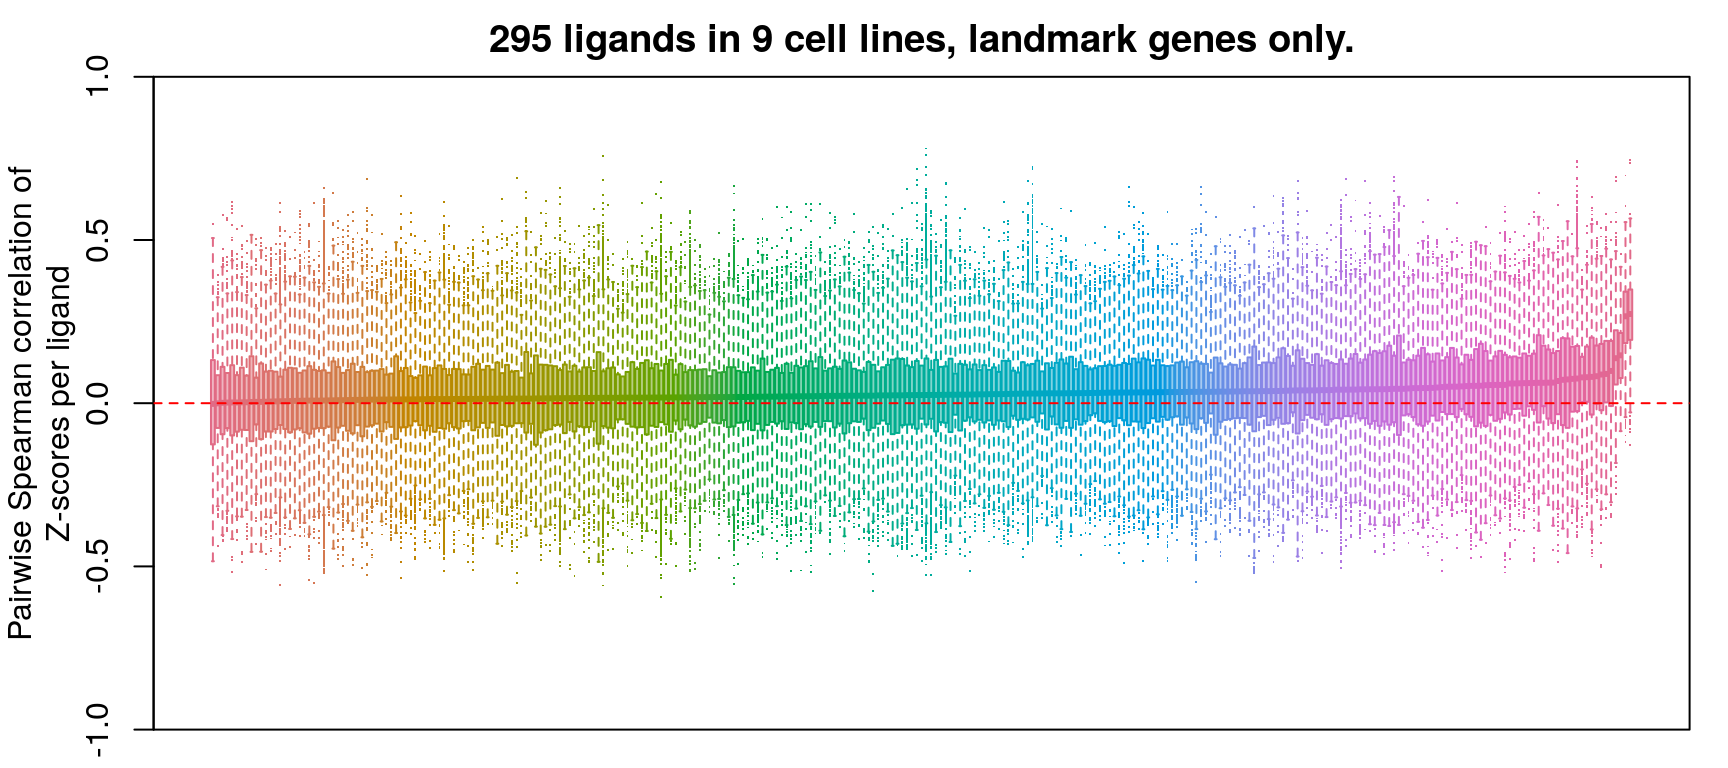
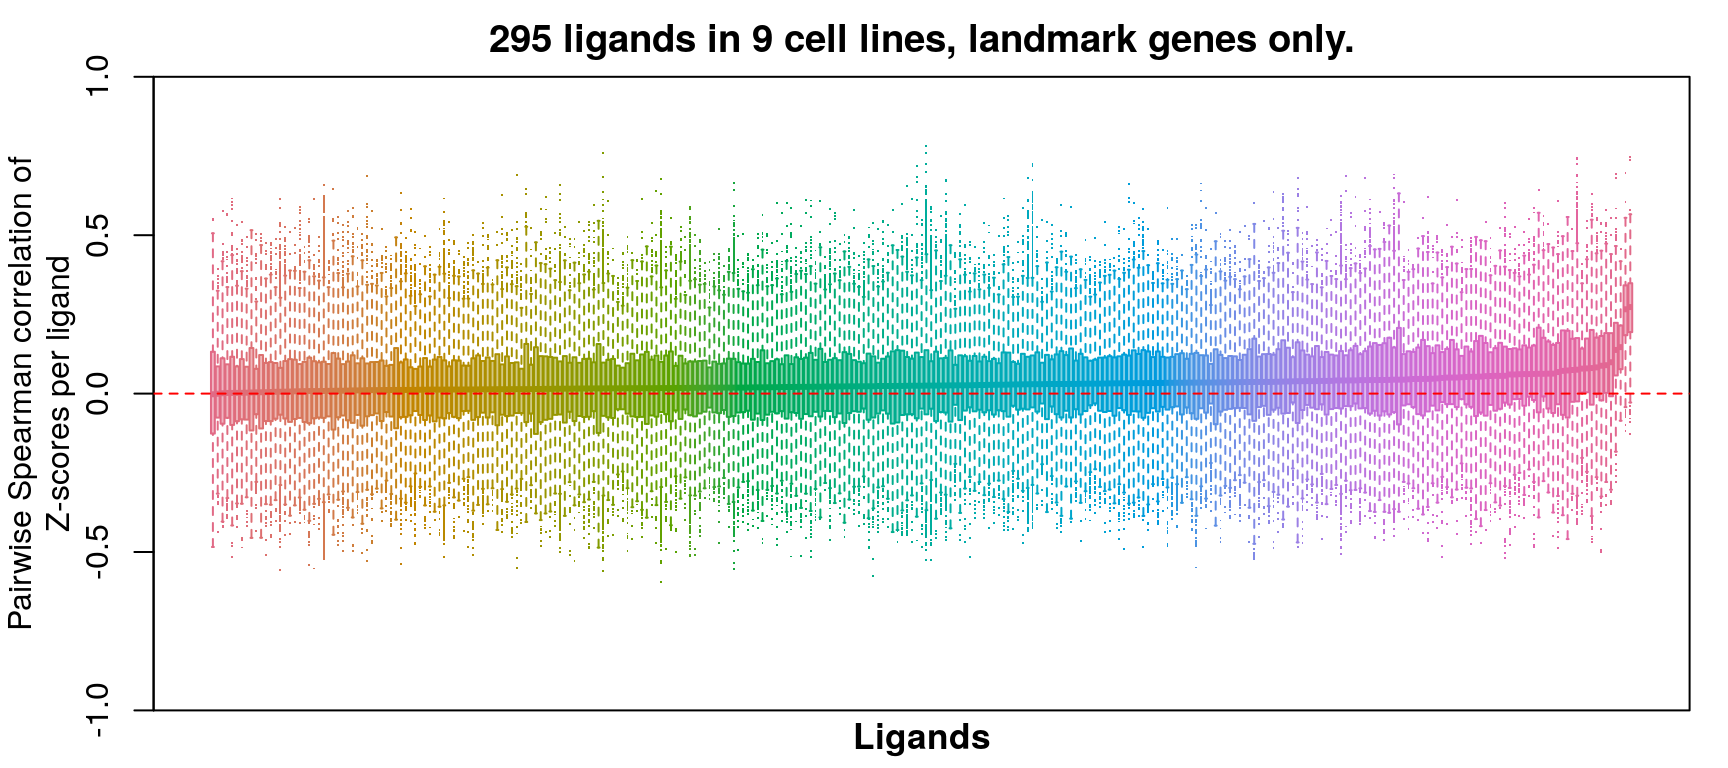
210114 - better Zcorr fig.

Changed region(s): [[0.0, 0.1875, 0.9688, 0.8438], [0.0938, 0.9062, 0.9688, 1.0], [0.0312, 0.875, 0.0625, 0.9688]]

diff --git a/docs/Zcorr.html b/docs/Zcorr.html
@@ -23,6 +23,15 @@
 <link href="site_libs/highlightjs-9.12.0/default.css" rel="stylesheet" />
 <script src="site_libs/highlightjs-9.12.0/highlight.js"></script>
 
+<style type="text/css">
+  code{white-space: pre-wrap;}
+  span.smallcaps{font-variant: small-caps;}
+  span.underline{text-decoration: underline;}
+  div.column{display: inline-block; vertical-align: top; width: 50%;}
+  div.hanging-indent{margin-left: 1.5em; text-indent: -1.5em;}
+  ul.task-list{list-style: none;}
+    </style>
+
 <style type="text/css">code{white-space: pre;}</style>
 <style type="text/css">
   pre:not([class]) {
@@ -67,6 +76,7 @@ h6 {
   text-align: left;
 }
 </style>
+
 
 
 
@@ -396,6 +406,18 @@ $(document).ready(function () {
 <h1>Comparison of all correlation distributions</h1>
 <p><img src="Zcorr_files/figure-html/compare_all-1.png" width="384" /><img src="Zcorr_files/figure-html/compare_all-2.png" width="384" /><img src="Zcorr_files/figure-html/compare_all-3.png" width="384" /><img src="Zcorr_files/figure-html/compare_all-4.png" width="384" /></p>
 </div>
+<div id="new-stuff" class="section level1">
+<h1>New stuff</h1>
+<div id="z-score-fat-tails" class="section level3">
+<h3>Z-score fat tails?</h3>
+<p><img src="Zcorr_files/figure-html/qq_zscore-1.png" width="768" /> Maybe…?</p>
+</div>
+<div id="better-correlation-figure" class="section level2">
+<h2>Better correlation figure</h2>
+<p><img src="Zcorr_files/figure-html/cors_per_lig-1.png" width="864" /></p>
+<p>The * denotes p &lt; 2.2e-16 from wilcoxon signed-rank test vs. mu of 0.</p>
+</div>
+</div>
 
 
 
@@ -406,7 +428,7 @@ $(document).ready(function () {
 
 // add bootstrap table styles to pandoc tables
 function bootstrapStylePandocTables() {
-  $('tr.header').parent('thead').parent('table').addClass('table table-condensed');
+  $('tr.odd').parent('tbody').parent('table').addClass('table table-condensed');
 }
 $(document).ready(function () {
   bootstrapStylePandocTables();
